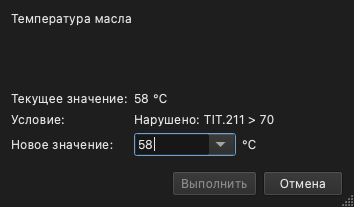
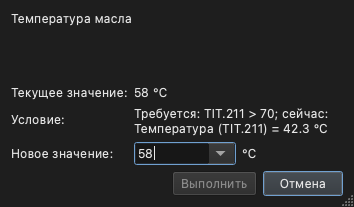
client: the Control dialog names the object's path and what blocks it
Second slice of the UX audit (docs/client/ux/audit-2026-11-25.md §3).

- 3.1: the dialog's first line and the review's «Объект» name the object
  by its path (WriteModel::GetObjectPath, GetFullDisplayName), so two
  substations' «Силовой выключатель» cannot be confused at the last
  screen before the command.
- 3.2: a blocked command reads «Требуется: TIT.211 > 70; сейчас:
  Температура (TIT.211) = 42.3 °C» instead of «Нарушено: TIT.211 > 70»,
  which read two ways and named nothing on screen. The inputs come from
  a new TimedData::GetOperands (empty by default; ExpressionTimedData
  returns its operands, AliasTimedData forwards), exposed as
  TimedDataSpec::operands(). The model fetches each input's node with
  its children so the reading carries units and display format.
- 3.3: on a field command Cancel is the default button and Execute is
  not auto-default: the new value is pre-seeded with the opposite state,
  so Return on a fresh dialog started a trip whenever an administrator
  had switched the review off. Manual input keeps Write as default.
- 3.4: Manual Input says no command reaches the equipment, and its lock
  box says what it does («Не принимать значения от устройства»).
- The review's «Текущее:» becomes «Текущее значение:», the dialog's term.

Tests: ReviewNamesTheObjectByItsPath, AnUnmetConditionSaysWhatItsInputs-
ReadNow, ACommandDefaultsToCancelNotExecute, ManualInputSaysNothingIs-
SentToTheEquipment; the «Not met» expectation now reads «Required».
[…]

diff --git a/client.md b/client.md
@@ -494,7 +494,11 @@ permalink: /client/
 Команда открывает диалог «Управление»: название объекта, «Текущее значение:» и
 «Новое значение:». Для объекта ТС новое значение выбирается из списка
 состояний (предлагается состояние, противоположное текущему), для объекта ТИ —
-вводится числом. Кнопка «Выполнить» отправляет команду.
+вводится числом. Кнопка «Выполнить» отправляет команду. Клавиша *Enter* команду
+не отправляет: по умолчанию в диалоге выбрана кнопка «Отмена».
+
+Первая строка диалога называет объект вместе с группами и устройством, в которые
+он входит, например «ПС Северная : Q1 : Силовой выключатель».
 
 Пока оператор не изменил поле «Новое значение:», предложенное значение следует
 за текущим состоянием объекта: если состояние изменится, пока диалог открыт,
@@ -516,7 +520,9 @@ permalink: /client/
 оборудования неизвестно.
 
 Если для объекта задано условие разрешения управления, в диалоге есть строка
-«Условие:». Она показывает «Выполнено» или «Нарушено» и обновляется на ходу.
+«Условие:». Она показывает «Выполнено» или, если условие не выполнено, что
+требуется и какие значения сейчас, например «Требуется: TIT.211 > 70; сейчас:
+Температура T1 (TIT.211) = 58 °C», и обновляется на ходу.
 Пока условие нарушено (или его значение недостоверно), кнопка «Выполнить»
 недоступна.
 
@@ -529,8 +535,8 @@ permalink: /client/
 
 #### Перед командой управления {#control-checklist}
 
-1. Сверьте название объекта в первой строке диалога «Управление» (заголовок
-   окна — просто «Управление», объекта он не называет).
+1. Сверьте объект и путь к нему в первой строке диалога «Управление»
+   (заголовок окна — просто «Управление», объекта он не называет).
 2. Убедитесь, что в строке «Текущее значение:» перед значением нет скобок с
    буквами С, Н, К или У (например, `[С]` или `[СУ]`) и после него нет знака
    «?» (смотрите [Как читать значения и цвета](#quality-legend)).
@@ -542,21 +548,22 @@ permalink: /client/
 
 Настройка *Подтверждение управления* (*Настройки → Настройки... → Управление*)
 включена по умолчанию и снова включается при каждом входе. Пока она включена, перед отправкой команды на
-оборудование Клиент показывает окно подтверждения: название объекта,
-«Текущее:» и «Команда:» — текущее и командное значения — и предупреждение
-«Эта команда управления передаётся на оборудование и не может быть отменена
-дистанционно. Отправить?».
+оборудование Клиент показывает окно подтверждения: объект с путём к нему,
+«Текущее значение:» и «Команда:» — текущее и командное значения, — оператора,
+время, этап команды и предупреждение «Эта команда управления передаётся на
+оборудование и не может быть отменена дистанционно.».
 
-Значение «Текущее:» в окне подтверждения показывается с теми же признаками
+Текущее значение в окне подтверждения показывается с теми же признаками
 качества, что и в диалоге «Управление»: буквами в квадратных скобках перед
 значением и знаком «?» у недостоверного значения. Проверьте их перед
 подтверждением.
 
-В окне подтверждения по умолчанию выбрана кнопка «Нет»: нажатие *Enter*
-**отменяет** команду. Чтобы отправить команду, нажмите «Да».
+В окне подтверждения по умолчанию выбрана кнопка «Отмена»: нажатие *Enter*
+**отменяет** команду. Чтобы отправить команду, нажмите «Отправить команду».
+Выключить подтверждение может только администратор.
 
 > **Внимание.** Если настройка *Подтверждение управления* выключена, команда
-> уходит на оборудование сразу по кнопке «Выполнить», без какого-либо запроса,
+> уходит на оборудование сразу по кнопке «Выполнить» (не по *Enter*), без какого-либо запроса,
 > а при двухэтапном управлении этап исполнения следует за этапом выбора
 > автоматически, без паузы для оператора. Не выключайте эту настройку на
 > диспетчерском рабочем месте.
@@ -692,8 +699,10 @@ permalink: /client/
 
 Команда *Ручной ввод...* (в контекстном меню объекта данных и в меню
 **Сигнал**) открывает диалог «Ручной ввод»: «Текущее значение:»,
-«Новое значение:» и флажок «Блокировка:». Кнопка «Записать» записывает
-значение. Окно подтверждения при ручном вводе не показывается, независимо от
+«Новое значение:» и флажок «Блокировка:» с надписью «Не принимать значения
+от устройства». Строка под названием объекта напоминает: «Значение задаётся в
+системе вручную; команда на оборудование не передаётся». Кнопка «Записать»
+записывает значение. Окно подтверждения при ручном вводе не показывается, независимо от
 настройки *Подтверждение управления*. Как и для управления, нужно право
 «Управление»: без него команд *Ручной ввод...* и *Разблокировать* в меню нет.
 

diff --git a/en/client.md b/en/client.md
@@ -475,6 +475,10 @@ The command opens the "Control" dialog: the object's name, "Current value:"
 and "New value:". For a discrete (TS) object the new value is picked from the
 list of states (the state opposite the current one is proposed); for an analog
 (TI) object it is typed as a number. The "Execute" button sends the command.
+The *Enter* key does not send it: the dialog's default button is "Cancel".
+
+The dialog's first line names the object together with the groups and device
+it belongs to, for example «ПС Северная : Q1 : Силовой выключатель».
 
 Until the operator changes the "New value:" field, the proposed value follows
 the object's present state: if the state changes while the dialog is open, the
@@ -495,7 +499,9 @@ configuration error. If the brackets before the value hold С, Н, К or У, the
 state is unknown.
 
 If the object has a control permission condition, the dialog has a
-"Condition:" row. It reads "Satisfied" or "Unsatisfied" and updates live.
+"Condition:" row. It reads "Satisfied" or, when the condition is not met,
+what is required and what the inputs read now, for example "Required:
+TIT.211 > 70; now: Temperature T1 (TIT.211) = 58 °C", and updates live.
 While the condition is unsatisfied (or its value is bad), "Execute" is
 disabled.
 
@@ -509,8 +515,8 @@ while the dialog is open, the client reports that the command failed.
 
 ### Before a control command {#control-checklist}
 
-1. Check the object's name on the first line of the "Control" dialog (the
-   window title just says "Control" and does not name the object).
+1. Check the object and its path on the first line of the "Control" dialog
+   (the window title just says "Control" and does not name the object).
 2. Make sure the "Current value:" line has no brackets holding С, Н, К or У
    before the value (for example `[С]` or `[СУ]`) and no "?" after it (see [Reading values and colours](#quality-legend)).
 3. Make sure the status bar reads "Connected".
@@ -521,19 +527,21 @@ while the dialog is open, the client reports that the command failed.
 
 The *Control Confirmation* setting (*Settings → Settings... → Control*) is on by
 default and is on again at every sign-in. While it is on, before a command goes to the equipment the client
-shows a confirmation box: the object's name, "Present:" and "Command:" — the
-present and the commanded values — and the warning "This control command is
-sent to physical equipment and cannot be undone remotely. Send it?".
+shows a confirmation box: the object with its path, "Present:" and
+"Command:" — the present and the commanded values —, the operator, the time,
+the command's stage and the warning "This control command is sent to physical
+equipment and cannot be undone remotely.".
 
-The "Present:" value in the confirmation box carries the same quality marks
+The present value in the confirmation box carries the same quality marks
 as in the "Control" dialog: flag letters in square brackets before the value
 and "?" after a bad value. Check them before confirming.
 
-The box's default button is "No": pressing *Enter* **cancels** the command. To
-send it, choose "Yes".
+The box's default button is "Cancel": pressing *Enter* **cancels** the
+command. To send it, choose "Send command". Only an administrator can turn
+confirmation off.
 
 > **Caution.** With *Control Confirmation* off, the command goes to the
-> equipment as soon as "Execute" is pressed, with no prompt at all, and in
+> equipment as soon as "Execute" is pressed (not on *Enter*), with no prompt at all, and in
 > two-stage control the execute stage follows the select stage automatically,
 > with no pause for the operator. Do not turn this setting off at an operator
 > workstation.
@@ -670,7 +678,9 @@ other event — otherwise they hold the event panel open.
 
 *Manual Input...* (in a data item's context menu and the **Item** menu) opens
 the "Manual Input" dialog: "Current value:", "New value:" and a "Lock:"
-checkbox. The "Write" button writes the value. No confirmation box is shown
+checkbox labelled "Ignore values from the device". A line under the object's
+name reminds the operator: "The value is entered into the system by hand; no
+command is sent to the equipment." The "Write" button writes the value. No confirmation box is shown
 for manual input, whatever the *Control Confirmation* setting. As for control,
 it needs the Control privilege: without it neither *Manual Input...* nor
 *Unlock* appears in the menu.
